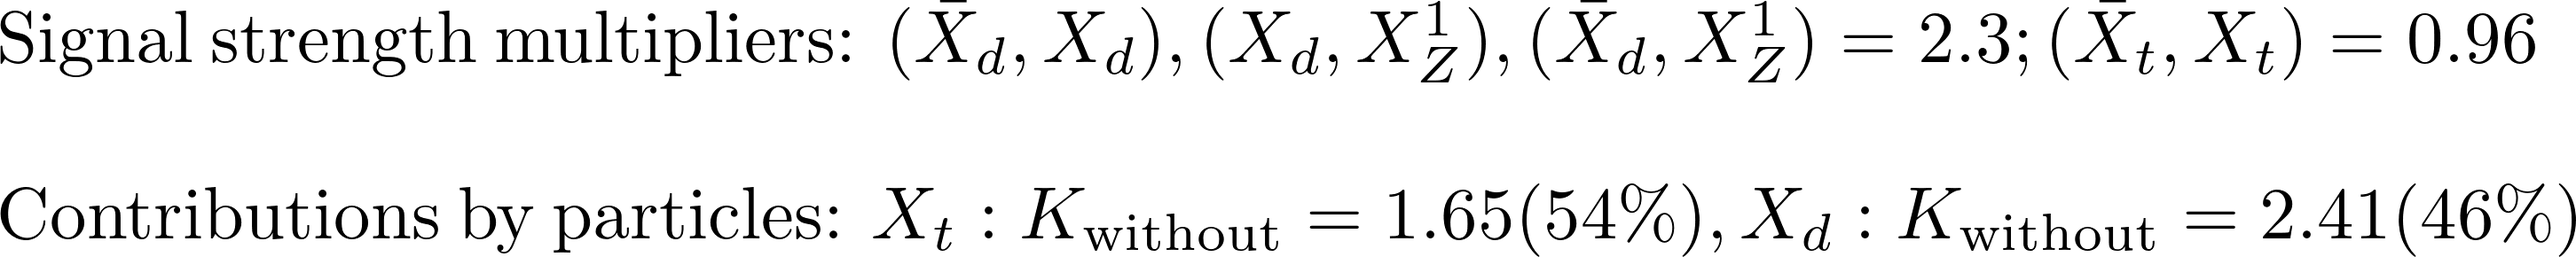
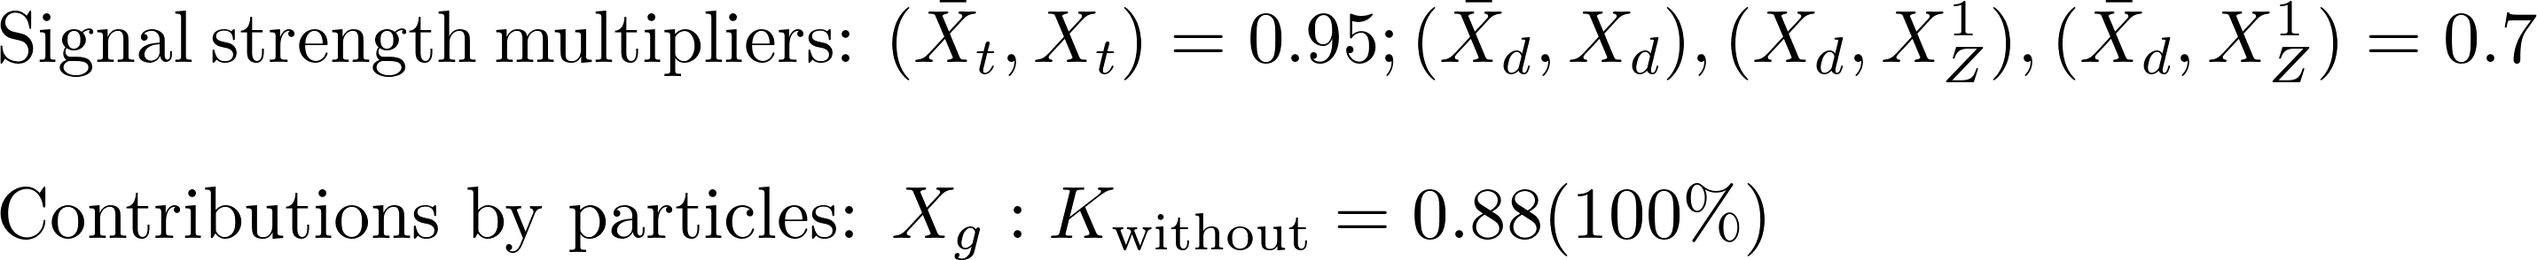
automated update by plotHiscore.py

diff --git a/protomodels/latest/index.html b/protomodels/latest/index.html
@@ -1,30 +1,30 @@
 <html>
 <body>
 <center>
-<table><td><h1>Current best protomodel: K=6.37</h1><td><img height=60px src=https://smodels.github.io/pics/banner.png></table>
+<table><td><h1>Current best protomodel: K=6.19</h1><td><img height=60px src=https://smodels.github.io/pics/banner.png></table>
 </center>
-<b><a href=./hiscore.slha>ProtoModel</a> <a href=./pmodel.py>(dict)</a> produced with <a href=https://smodels.github.io/docs/Validation124>database v1.2.4</a>, combination strategy <a href=./matrix_aggressive.png>aggressive</a> in walker 34 step 219.</b> K plots for: <a href=./M1000022.png?7428902>X<sub>Z</sub><sup>1</sup></a>, <a href=./M1000006.png?7428902>X<sub>t</sub></a>, <a href=./M1000001.png?7428902>X<sub>d</sub></a>. HPD plots for: <a href=./llhd1000006.png?7428902>X<sub>t</sub></a>, <a href=./llhd1000001.png?7428902>X<sub>d</sub></a>. SSM plots for: <a href=./ssm_-1000006_1000006.png?7428902>(x&#772;<sub>t</sub>,X<sub>t</sub>)</a><br>
+<b><a href=./hiscore.slha>ProtoModel</a> <a href=./pmodel.py>(dict)</a> produced with <a href=https://smodels.github.io/docs/Validation124>database v1.2.4</a>, combination strategy <a href=./matrix_aggressive.png>aggressive</a> in walker 23 step 69.</b> K plots for: <a href=./M1000022.png?7428944>X<sub>Z</sub><sup>1</sup></a>, <a href=./M1000021.png?7428944>X<sub>g</sub></a>. HPD plots for: <a href=./llhd1000021.png?7428944>X<sub>g</sub></a>. SSM plots for: <a href=./ssm_-1000006_1000006.png?7428944>(x&#772;<sub>t</sub>,X<sub>t</sub>)</a><br>
 <table width=80%>
 <tr><td>
-<br><b>31 predictions available. Highest r values are:</b><br><ul>
-<li><a href=http://cms-results.web.cern.ch/cms-results/public-results/publications/SUS-19-006/index.html>CMS-SUS-19-006</a>:T2tt r=1.30, r<sub>exp</sub>=0.78<br>
-<li><a href=http://cms-results.web.cern.ch/cms-results/public-results/publications/SUS-19-006/index.html>CMS-SUS-19-006</a>:T2 r=1.26, r<sub>exp</sub>=1.12<br>
-<li><a href=http://cms-results.web.cern.ch/cms-results/public-results/publications/SUS-16-033/index.html>CMS-SUS-16-033</a>:T2 r=1.18, r<sub>exp</sub>=0.84<br>
-<li><a href=http://cms-results.web.cern.ch/cms-results/public-results/publications/SUS-16-036/index.html>CMS-SUS-16-036</a>:T2 r=0.90, r<sub>exp</sub>=0.75<br>
-<li><a href=http://cms-results.web.cern.ch/cms-results/public-results/publications/SUS-16-049/index.html>CMS-SUS-16-049</a>:T2tt r=0.69, r<sub>exp</sub>=0.51<br>
+<br><b>24 predictions available. Highest r values are:</b><br><ul>
+<li><a href=http://cms-results.web.cern.ch/cms-results/public-results/publications/SUS-19-006/index.html>CMS-SUS-19-006</a>:T2 r=1.30, r<sub>exp</sub>=1.13<br>
+<li><a href=http://cms-results.web.cern.ch/cms-results/public-results/publications/SUS-16-033/index.html>CMS-SUS-16-033</a>:T2 r=1.20, r<sub>exp</sub>=0.84<br>
+<li><a href=http://cms-results.web.cern.ch/cms-results/public-results/publications/SUS-19-006/index.html>CMS-SUS-19-006</a>:T2tt r=0.93, r<sub>exp</sub>=0.90<br>
+<li><a href=http://cms-results.web.cern.ch/cms-results/public-results/publications/SUS-16-036/index.html>CMS-SUS-16-036</a>:T2 r=0.89, r<sub>exp</sub>=0.75<br>
+<li><a href=http://cms-results.web.cern.ch/cms-results/public-results/publications/SUS-16-051/index.html>CMS-SUS-16-051</a>:T2tt r=0.66, r<sub>exp</sub>=0.43<br>
 </ul>
 <td><br><b>K values without analyses: (contribution)</b><br>
 <ul>
-<li> <a href=https://atlas.web.cern.ch/Atlas/GROUPS/PHYSICS/PAPERS/SUSY-2013-02/>ATLAS-SUSY-2013-02</a>: 6.09 (3%)
-<li> <a href=https://twiki.cern.ch/twiki/bin/view/CMSPublic/PhysicsResultsSUS13012>CMS-SUS-13-012</a>: 5.54 (8%)
-<li> <a href=>CMS-SUS-16-049</a>: 4.42 (18%)
-<li> <a href=>ATLAS-SUSY-2016-16</a>: 3.54 (26%)
-<li> <a href=https://atlas.web.cern.ch/Atlas/GROUPS/PHYSICS/PAPERS/SUSY-2016-07/>ATLAS-SUSY-2016-07</a>: 1.59 (45%)
-<td><img width=600px src=./texdoc.png?1600428902>
-<br><font size=-1>Last updated: Fri Sep 18 13:35:02 2020</font>
+<li> <a href=https://atlas.web.cern.ch/Atlas/GROUPS/PHYSICS/PAPERS/SUSY-2013-02/>ATLAS-SUSY-2013-02</a>: 3.85 (12%)
+<li> <a href=>CMS-SUS-13-013</a>: 3.58 (14%)
+<li> <a href=>CMS-SUS-16-033</a>: 2.85 (17%)
+<li> <a href=>CMS-SUS-12-028</a>: 1.27 (25%)
+<li> <a href=https://atlas.web.cern.ch/Atlas/GROUPS/PHYSICS/PAPERS/SUSY-2016-07/>ATLAS-SUSY-2016-07</a>: 0.05 (32%)
+<td><img width=600px src=./texdoc.png?1600428944>
+<br><font size=-1>Last updated: Fri Sep 18 13:35:44 2020</font>
 </table><table style="width:80%">
-<td width=45%><img height=580px src=./ruler.png?1600428902><td width=55%><img height=380px src=./decays.png?1600428902>
-<font size=-3><iframe type="text/html" height="220px" width="100%s" frameborder="0" src="./rawnumbers.html?1600428902"></iframe></font>
+<td width=45%><img height=580px src=./ruler.png?1600428944><td width=55%><img height=380px src=./decays.png?1600428944>
+<font size=-3><iframe type="text/html" height="220px" width="100%s" frameborder="0" src="./rawnumbers.html?1600428944"></iframe></font>
 </table>
 </body>
 </html>

diff --git a/protomodels/latest/rawnumbers.html b/protomodels/latest/rawnumbers.html
@@ -2,9 +2,8 @@
 <tr><th>Analysis Name</th><th>Type</th><th>Dataset</th><th>Topos</th><th>Observed</th><th>Expected</th><th>Approx &sigma;</th><th>Particles</th>
 </tr>
 <tr><td><a href=https://atlas.web.cern.ch/Atlas/GROUPS/PHYSICS/PAPERS/SUSY-2013-02/>ATLAS-SUSY-2013-02</a></td><td>em</td> <td>SR6jtp</td><td>T2</td><td>6</td><td>4.9 +/- 1.6</td><td style="text-align:right">0.4 &sigma;</td><td style="text-align:right">X<sub>d</sub></td></tr>
-<tr><td><a href=https://atlas.web.cern.ch/Atlas/GROUPS/PHYSICS/PAPERS/SUSY-2013-15/>ATLAS-SUSY-2013-15</a></td><td>em</td> <td>tNboost</td><td>T2tt</td><td>5</td><td>3.3 +/- 0.7</td><td style="text-align:right">0.9 &sigma;</td><td style="text-align:right">X<sub>t</sub></td></tr>
-<tr><td><a href=http://atlas.web.cern.ch/Atlas/GROUPS/PHYSICS/PAPERS/SUSY-2015-02/>ATLAS-SUSY-2015-02</a></td><td>em</td> <td>SR1</td><td>T2tt</td><td>12</td><td>5.5 +/- 0.72</td><td style="text-align:right">2.6 &sigma;</td><td style="text-align:right">X<sub>t</sub></td></tr>
 <tr><td><a href=https://atlas.web.cern.ch/Atlas/GROUPS/PHYSICS/PAPERS/SUSY-2016-07/>ATLAS-SUSY-2016-07</a></td><td>em</td> <td>2j_Meff_1200</td><td>T2</td><td>611</td><td>526 +/- 31</td><td style="text-align:right">2.2 &sigma;</td><td style="text-align:right">X<sub>d</sub></td></tr>
-<tr><td><a href=https://twiki.cern.ch/twiki/bin/view/CMSPublic/PhysicsResultsSUS13012>CMS-SUS-13-012</a></td><td>ul</td> <td>-</td><td>T2</td><td> 31.0 fb </td><td> 19.3 fb</td><td style="text-align:right">1.2 &sigma;</td><td style="text-align:right">X<sub>d</sub></td></tr>
-<tr><td><a href=http://cms-results.web.cern.ch/cms-results/public-results/publications/SUS-16-050/index.html>CMS-SUS-16-050</a></td><td>ul</td> <td>-</td><td>T2tt</td><td> 243.5 fb </td><td> 114.1 fb</td><td style="text-align:right">2.2 &sigma;</td><td style="text-align:right">X<sub>t</sub></td></tr>
+<tr><td><a href=https://atlas.web.cern.ch/Atlas/GROUPS/PHYSICS/PAPERS/SUSY-2016-16/>ATLAS-SUSY-2016-16</a></td><td>em</td> <td>tN_high</td><td>T2tt</td><td>8</td><td>3.8 +/- 1</td><td style="text-align:right">1.9 &sigma;</td><td style="text-align:right">X<sub>t</sub></td></tr>
+<tr><td><a href=https://twiki.cern.ch/twiki/bin/view/CMSPublic/PhysicsResultsSUS13012>CMS-SUS-13-012</a></td><td>ul</td> <td>-</td><td>T2</td><td> 30.0 fb </td><td> 18.5 fb</td><td style="text-align:right">1.2 &sigma;</td><td style="text-align:right">X<sub>d</sub></td></tr>
+<tr><td><a href=http://cms-results.web.cern.ch/cms-results/public-results/publications/SUS-16-050/index.html>CMS-SUS-16-050</a></td><td>ul</td> <td>-</td><td>T2tt</td><td> 4.7 fb </td><td> 2.7 fb</td><td style="text-align:right">1.5 &sigma;</td><td style="text-align:right">X<sub>t</sub></td></tr>
 </table>

diff --git a/protomodels/latest/pmodel.py b/protomodels/latest/pmodel.py
@@ -1,1 +1,1 @@
-{'masses': {1000022: 477.551, 1000001: 941.084, 1000006: 724.194}, 'ssmultipliers': {(1000022, 1000022): 0.0, (1000001, 1000001): 2.996, (-1000001, 1000001): 2.266, (-1000001, -1000001): 2.266, (1000001, 1000022): 2.266, (-1000001, 1000022): 2.266, (1000006, 1000006): 0.965, (-1000006, 1000006): 0.965, (-1000006, -1000006): 0.965, (1000006, 1000022): 0.965, (-1000006, 1000022): 0.965, (1000001, 1000006): 0.965, (-1000006, 1000001): 0.965, (-1000001, 1000006): 0.965, (-1000006, -1000001): 0.965}, 'decays': {1000022: {}, 1000001: {1000022: 1.0}, 1000006: {1000022: 1.0}}, 'timestamp': 'Fri Sep 18 13:34:54 2020', 'Z': 3.149, 'K': 6.369, 'step': 219, 'codever': '1.0', 'dbver': '1.2.4'}
+{'masses': {1000022: 255.299, 1000001: 785.478, 1000006: 1162.147}, 'ssmultipliers': {(1000022, 1000022): 0.0, (1000001, 1000001): 0.703, (-1000001, 1000001): 0.703, (-1000001, -1000001): 0.703, (1000001, 1000022): 0.703, (-1000001, 1000022): 0.703, (1000006, 1000006): 0.949, (-1000006, 1000006): 0.949, (-1000006, -1000006): 0.949, (1000006, 1000022): 0.949, (-1000006, 1000022): 0.949, (1000001, 1000006): 0.949, (-1000006, 1000001): 0.949, (-1000001, 1000006): 0.949, (-1000006, -1000001): 0.949}, 'decays': {1000022: {}, 1000001: {1000022: 1.0}, 1000006: {1000022: 1.0}}, 'timestamp': 'Fri Sep 18 13:35:37 2020', 'Z': 3.125, 'K': 6.191, 'step': 69, 'codever': '1.0', 'dbver': '1.2.4'}
